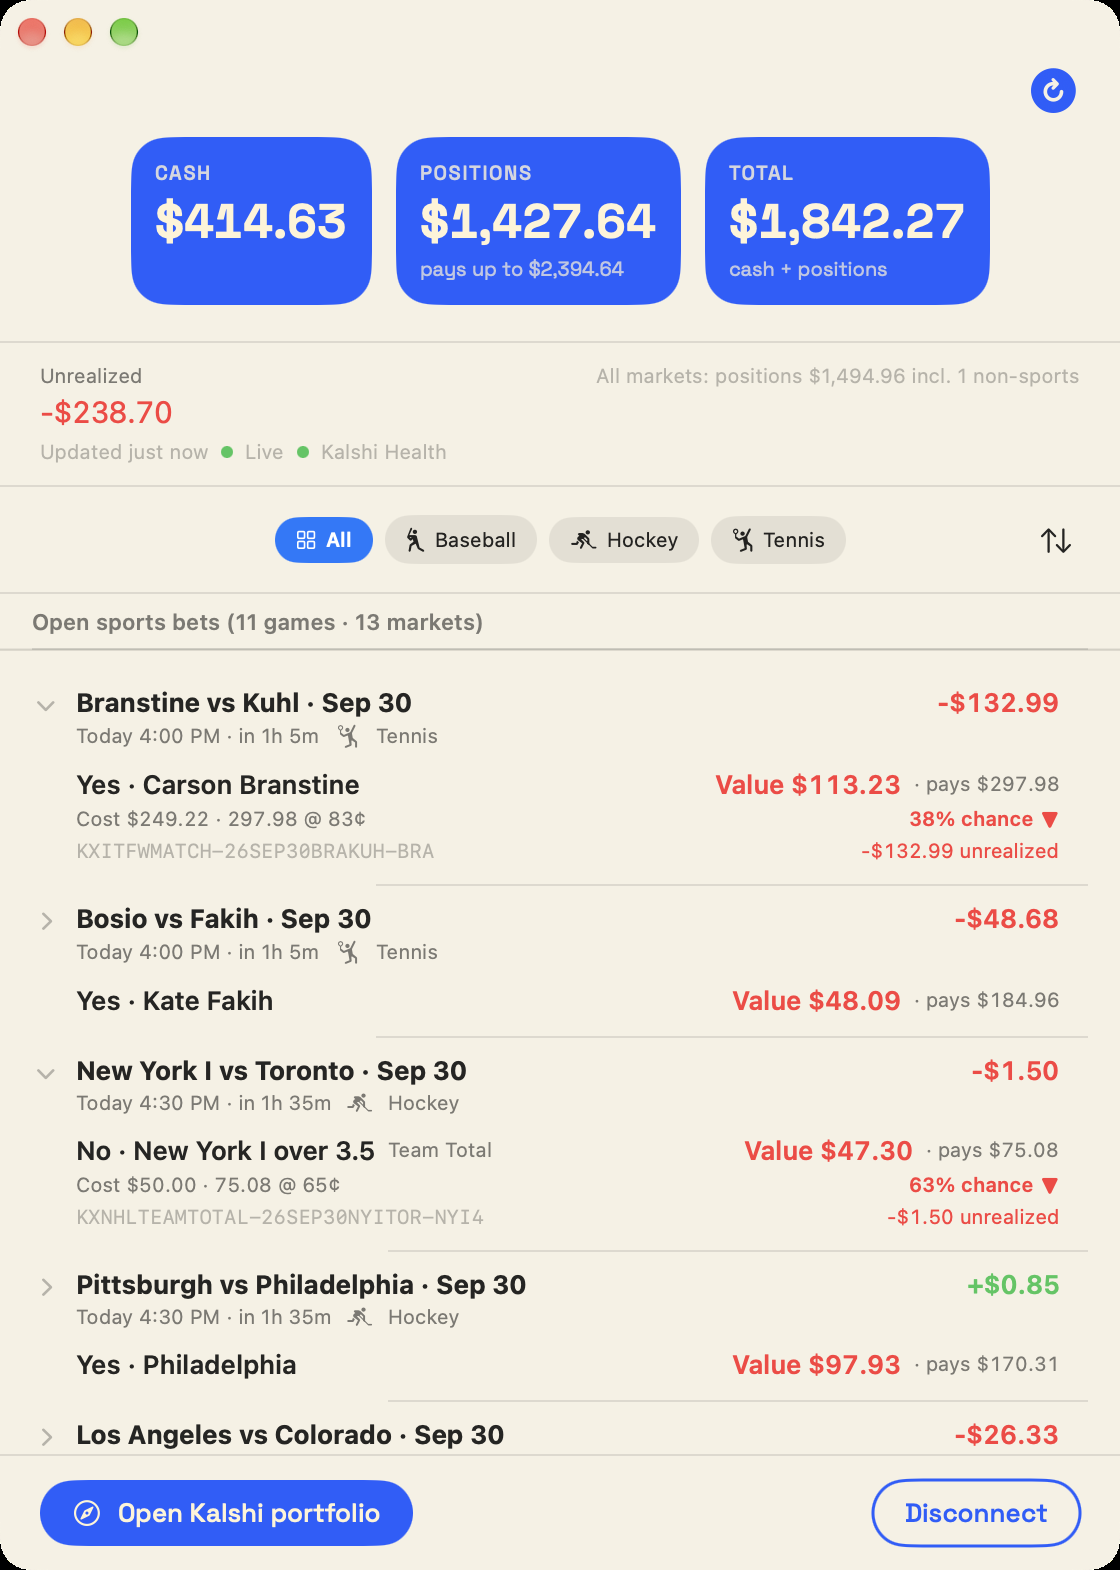
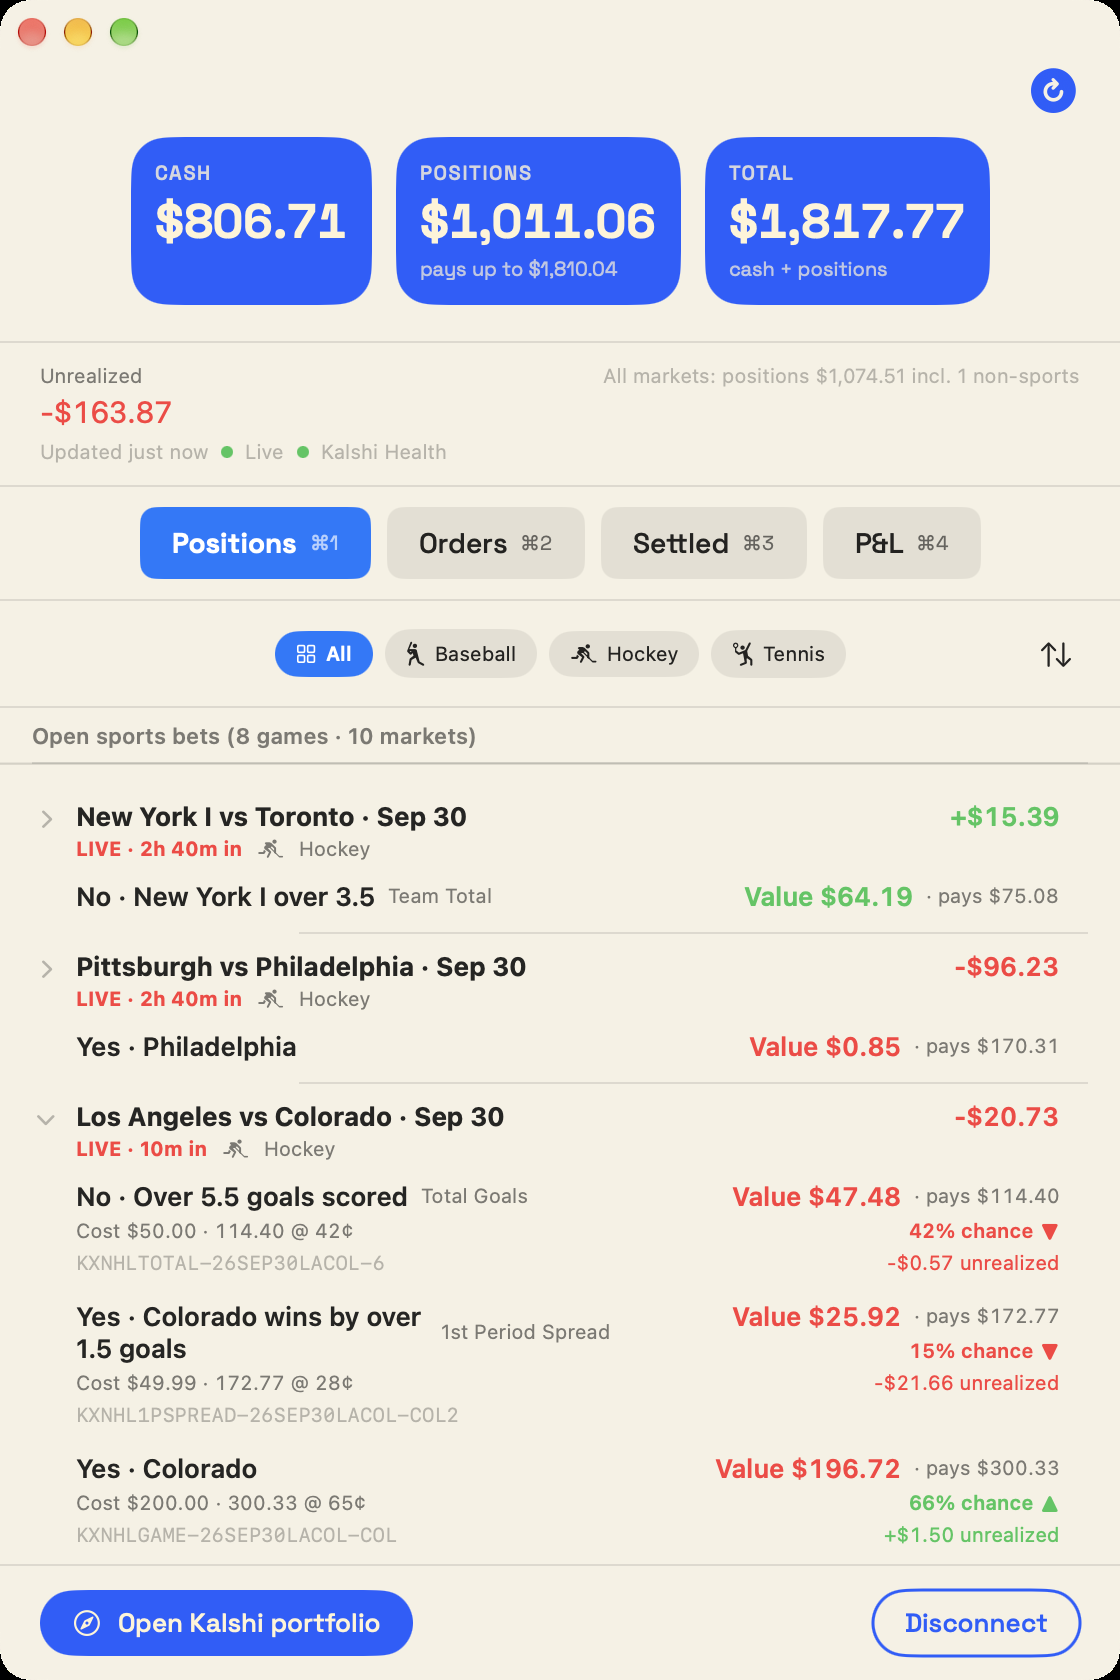
0.3.0 screenshots: window with the section bar, upcoming tennis detail
Claude-Session: https://claude.ai/code/session_01JBnfGH6vc6kjstVsihcYci

diff --git a/glance/index.html b/glance/index.html
@@ -117,8 +117,8 @@
       <p class="fineprint"><a href="https://github.com/davidmarcantonio/spex-glance/releases/latest"><span data-version>v0.2.1</span></a> · macOS 15 or newer · Apple silicon only · MIT license · Not affiliated with Kalshi</p>
     </div>
     <div>
-      <img class="shot" src="/assets/screenshot-main.png" width="1120" height="1570" alt="Spex Glance main window: Cash, Positions and Total tiles, unrealized P&amp;L, Live and Kalshi Health indicators, sport filters, and open positions grouped by game with value, payout and chance" loading="eager" fetchpriority="high">
-      <p class="caption">The whole window. Tennis and hockey, an hour before first pitch.</p>
+      <img class="shot" src="/assets/screenshot-main.png" width="1120" height="1680" alt="Spex Glance 0.3.0 main window: Cash, Positions and Total tiles, Live and Kalshi Health dots, the Positions, Orders, Settled and P&amp;L sections, sport filters, and live hockey positions with value, payout, chance and unrealized P&amp;L" loading="eager" fetchpriority="high">
+      <p class="caption">The whole window, 0.3.0. Three hockey games live, two of them not going well.</p>
     </div>
   </div>
 </section>
@@ -133,8 +133,8 @@
         <p class="muted">By default it keeps almost nothing. Your API key lives in the macOS Keychain and your settings live with the app. Positions stream in and are shown, and the realized P&amp;L chart is rebuilt from Kalshi's own settlement records on every launch. If you turn on Live Line, the app records your sports total over time so it can chart it, encrypted on that Mac or in your private iCloud, your choice. It's off until you say otherwise.</p>
       </div>
       <div>
-        <div class="zoom"><img src="/assets/screenshot-detail.png" width="1110" height="504" alt="Close-up of two position cards: cost, price paid, current value, payout, chance, and unrealized P&amp;L per side, with the Kalshi market ticker" loading="lazy"></div>
-        <p class="caption">Up close. Cost, what it's worth now, what it pays, chance, and the running P&amp;L on each side.</p>
+        <div class="zoom"><img src="/assets/screenshot-detail.png" width="1216" height="332" alt="Close-up of two upcoming tennis positions: start time, countdown, side held, current value, payout and P&amp;L" loading="lazy"></div>
+        <p class="caption">Up close. Start time, countdown, what it's worth now, what it pays, and the running P&amp;L.</p>
       </div>
     </div>
   </div>
